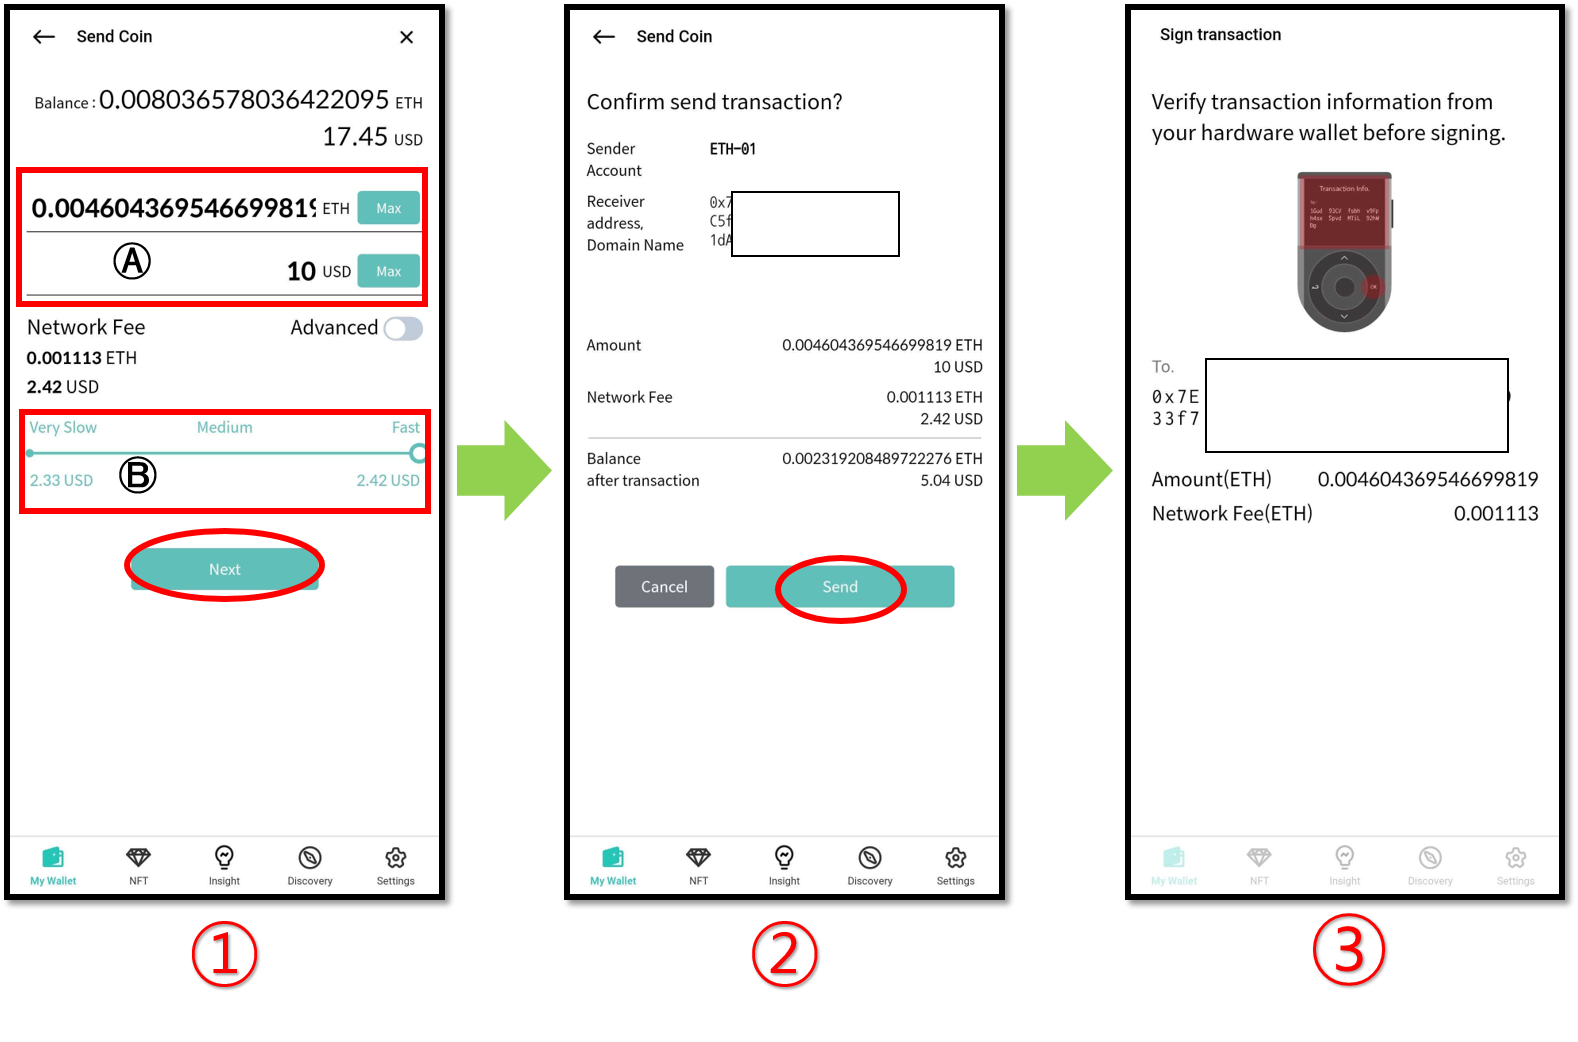
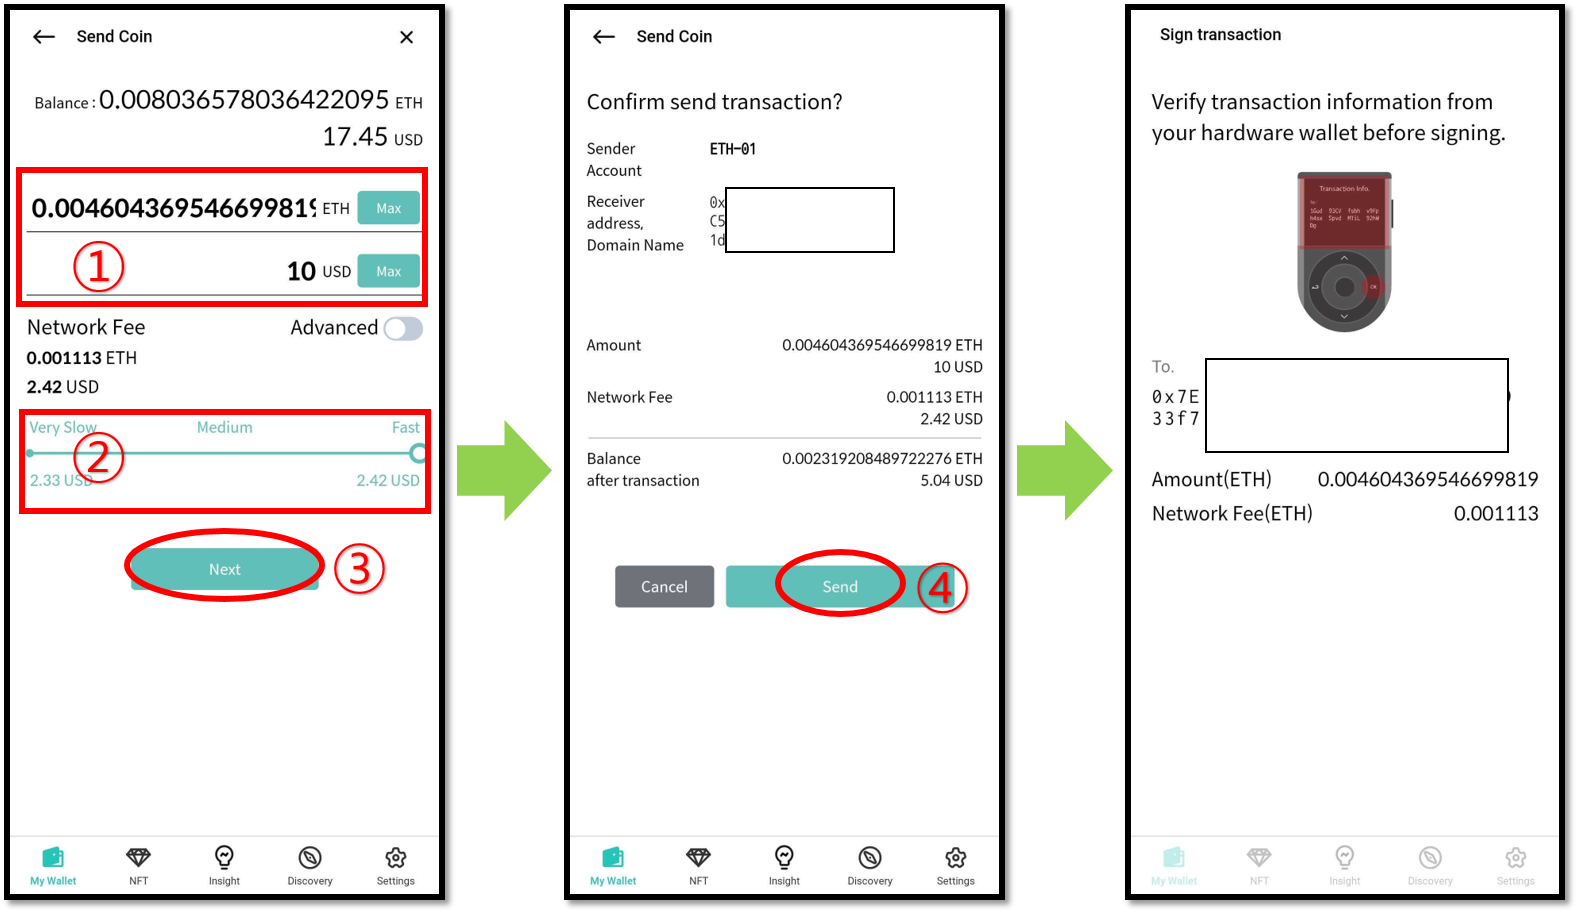
GITBOOK-558: change request with no subject merged in GitBook

diff --git a/coin-send-receive/send/mode_biometric.md b/coin-send-receive/send/mode_biometric.md
@@ -14,7 +14,7 @@ If you are using the Biometric Wallet mode, you can send coins only when your Bi
 
 1\) From the mobile app, press the **"Send"** button of the coin account to be used for the transaction.
 
-2\) You can directly enter the address of the other party (Receiver) in the address field.
+2\) You can directly enter the address of the other party (Receiver) in the address field or
 
 **Ⓐ** Press "**QR Scan"** to operate the camera. \
 **Ⓑ** Click "**Paste"** to enter the copied address.
@@ -30,19 +30,14 @@ If you are using the Biometric Wallet mode, you can send coins only when your Bi
 
 </div>
 
-1\) Enter the number of cryptocurrency you want to send.
+1\) Enter the number of cryptocurrency you want to send, or enter the amount in local currency.
 
-**Ⓐ** You can also enter local currency amounts.
-
-**Ⓑ** Set the transaction fee. (Very Slow / Medium / Fast) \
+2\) Set the transaction fee. (Very Slow / Medium / Fast) \
 By setting it to "Fast" and paying more fees, it is likely that the processing time of the transfer transaction will be reduced.
 
-Once you have set the amount and fee, click the "**Next**" button.
+3\) Once you have set the amount and fee, click the "**Next**" button.
 
-2\) Check if the transaction details displayed on the screen are correct and click the "**Send**" button.
-
-3\) After verifying the transaction information, proceed with signing in your Biometric wallet.\
-
+4\) Check if the transaction details displayed on the screen are correct and click the "**Send**" button.
 
 ### Final confirmation from your Biometric Wallet
 
